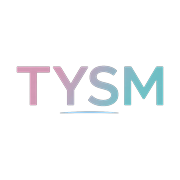
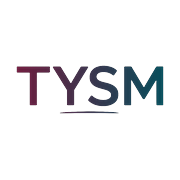
Fix the phone chrome the production screenshots called out.
Slim the header onto a bottom tab bar, darken the wordmark so it reads on gray, hide category scrollbars, and replace letterboxed placeholder photos.

Changed region(s): [[0.0833, 0.3611, 0.9167, 0.6389]]

diff --git a/components/shell.tsx b/components/shell.tsx
@@ -20,11 +20,15 @@ export function Header({
 }) {
   const nav = navLabels(locale);
   return (
-    <header className="sticky top-0 z-30 pt-[env(safe-area-inset-top)]">
-      <div className="bg-bg">
-        <div className="mx-auto flex h-14 max-w-6xl items-center gap-1 overflow-x-auto px-3 md:h-16 md:gap-3 md:px-5">
+    <header className="sticky top-0 z-40 bg-bg pt-[env(safe-area-inset-top)]">
+      <div>
+        <div className="mx-auto flex h-14 max-w-6xl items-center gap-1 px-3 md:h-16 md:gap-3 md:px-5">
           <Link href="/" className="shrink-0 pr-1">
-            <img src="/brand/tysm-wordmark.png" alt="TYSM" className="h-8 w-auto bg-transparent sm:h-9 md:h-10" />
+            <img
+              src={theme === "dark" ? "/brand/tysm-wordmark-on-dark.png" : "/brand/tysm-wordmark.png"}
+              alt="TYSM"
+              className="h-9 w-auto bg-transparent md:h-10"
+            />
           </Link>
           <div className="mx-auto hidden min-w-0 max-w-xl flex-1 md:block">
             <SearchBox locale={locale} />
@@ -53,23 +57,31 @@ export function Header({
               </form>
             ) : null}
           </nav>
-          <form action={setPrefs} className="flex items-center">
-            <button className="grid h-11 min-w-11 place-items-center rounded-full px-2 text-xs font-semibold text-muted" name="locale" value={locale === "en" ? "zh-HK" : "en"}>
-              {locale === "en" ? "中" : "EN"}
-            </button>
-            <button
-              className="grid h-11 w-11 place-items-center rounded-full text-muted"
-              name="theme"
-              value={theme === "dark" ? "light" : "dark"}
-              aria-label={theme === "dark" ? tx(locale, "淺色", "Light") : tx(locale, "深色", "Dark")}
-            >
-              <Icon name={theme === "dark" ? "sun" : "moon"} className="h-5 w-5" />
-            </button>
-          </form>
+          <div className="hidden md:block">
+            <PrefToggles locale={locale} theme={theme} />
+          </div>
         </div>
         <div className="h-px bg-gradient-to-r from-transparent via-rose/70 to-teal/80" />
       </div>
     </header>
+  );
+}
+
+export function PrefToggles({ locale, theme }: { locale: Locale; theme: "light" | "dark" }) {
+  return (
+    <form action={setPrefs} className="flex items-center">
+      <button className="grid h-11 min-w-11 place-items-center rounded-full px-2 text-xs font-semibold text-muted" name="locale" value={locale === "en" ? "zh-HK" : "en"}>
+        {locale === "en" ? "中" : "EN"}
+      </button>
+      <button
+        className="grid h-11 w-11 place-items-center rounded-full text-muted"
+        name="theme"
+        value={theme === "dark" ? "light" : "dark"}
+        aria-label={theme === "dark" ? tx(locale, "淺色", "Light") : tx(locale, "深色", "Dark")}
+      >
+        <Icon name={theme === "dark" ? "sun" : "moon"} className="h-5 w-5" />
+      </button>
+    </form>
   );
 }
 
@@ -83,12 +95,14 @@ function Count({ n }: { n: number }) {
 
 export function Footer({ locale }: { locale: Locale }) {
   return (
-    <footer className="mt-14 text-xs text-muted md:mt-20">
-      <div className="mx-auto flex max-w-6xl flex-wrap items-center justify-center gap-x-4 gap-y-1 px-4 py-8 md:justify-start">
-        <span className="font-display tracking-wide">TYSM · HKD</span>
-        <Link className="inline-flex h-11 items-center" href="/faq">FAQ</Link>
-        <Link className="inline-flex h-11 items-center" href="/terms">{tx(locale, "條款", "Terms")}</Link>
-        <Link className="inline-flex h-11 items-center" href="/privacy">{tx(locale, "私隱", "Privacy")}</Link>
+    <footer className="mt-10 text-muted md:mt-20">
+      <div className="mx-auto max-w-6xl px-4 py-6 text-center md:flex md:items-center md:justify-start md:gap-4 md:py-8 md:text-left">
+        <p className="font-display text-sm tracking-wide">TYSM</p>
+        <p className="mt-2 flex justify-center gap-4 text-xs md:mt-0">
+          <Link className="inline-flex min-h-11 items-center md:min-h-0" href="/faq">FAQ</Link>
+          <Link className="inline-flex min-h-11 items-center md:min-h-0" href="/terms">{tx(locale, "條款", "Terms")}</Link>
+          <Link className="inline-flex min-h-11 items-center md:min-h-0" href="/privacy">{tx(locale, "私隱", "Privacy")}</Link>
+        </p>
       </div>
     </footer>
   );

diff --git a/components/listing-card.tsx b/components/listing-card.tsx
@@ -42,35 +42,35 @@ export function ListingCard({
   const sale =
     listing.saleType === "AUCTION" ? tx(locale, "拍賣", "Auction") : listing.saleType === "BOTH" ? tx(locale, "直購 + 拍賣", "BIN + auction") : tx(locale, "直購", "Buy Now");
   return (
-    <article className="surface relative overflow-hidden">
-      <Link href={`/listing/${listing.id}`} className="block">
-        <div className="relative">
-          <img src={listing.photos[0]?.url || "/demo/back.svg"} alt="" className="aspect-[4/5] w-full object-cover" />
-          <span className="absolute left-2.5 top-2.5 max-w-[68%] truncate rounded-full bg-card/95 px-2.5 py-1 text-[11px] font-semibold text-ink shadow-sm">
-            {conditionLabel(listing)}
-          </span>
-        </div>
-        <div className="grid gap-1.5 px-3 pb-3.5 pt-3">
-          <h2 className="line-clamp-2 min-h-[2.5em] text-[15px] font-semibold leading-snug">{listing.title}</h2>
-          <p className="price text-xl leading-none">{formatHkd(amount, locale)}</p>
-          <p className="truncate text-xs leading-4 text-muted">
-            {sale}
-            {followed ? ` · ${tx(locale, "關注中", "Following")}` : ""}
-            {live && listing.auctionEndsAt ? ` · ${formatHKT(listing.auctionEndsAt, locale, false)}` : ` · ${listing.seller.nickname}`}
-          </p>
-        </div>
+    <article className="surface flex h-full flex-col overflow-hidden">
+      <div className="relative">
+        <Link href={`/listing/${listing.id}`} className="block">
+          <img src={listing.photos[0]?.url || "/demo/back.svg"} alt="" className="block aspect-[4/5] w-full object-cover" />
+        </Link>
+        <span className="pointer-events-none absolute left-2.5 top-2.5 max-w-[62%] truncate rounded-full bg-card/95 px-2.5 py-1 text-[11px] font-semibold text-ink shadow-sm">
+          {conditionLabel(listing)}
+        </span>
+        <form action={toggleFavorite} className="absolute bottom-2 right-2">
+          <input type="hidden" name="listingId" value={listing.id} />
+          <input type="hidden" name="next" value={next} />
+          <button
+            aria-label={tx(locale, "收藏", "Favorite")}
+            className={`grid h-11 w-11 place-items-center rounded-full text-2xl leading-none shadow-sm ${favorited ? "bg-[#1b1418] text-rose" : "bg-card text-[#9a5d78]"}`}
+          >
+            {favorited ? "♥" : "♡"}
+            <span className="sr-only">{listing.favoriteCount}</span>
+          </button>
+        </form>
+      </div>
+      <Link href={`/listing/${listing.id}`} className="flex flex-1 flex-col gap-1.5 px-3 pb-3.5 pt-3">
+        <h2 className="line-clamp-2 min-h-[2.6em] text-[15px] font-semibold leading-snug">{listing.title}</h2>
+        <p className="price text-[1.45rem] leading-none">{formatHkd(amount, locale)}</p>
+        <p className="mt-auto truncate text-xs leading-4 text-muted">
+          {sale}
+          {followed ? ` · ${tx(locale, "關注中", "Following")}` : ""}
+          {live && listing.auctionEndsAt ? ` · ${formatHKT(listing.auctionEndsAt, locale, false)}` : ` · ${listing.seller.nickname}`}
+        </p>
       </Link>
-      <form action={toggleFavorite} className="absolute right-1.5 top-1.5">
-        <input type="hidden" name="listingId" value={listing.id} />
-        <input type="hidden" name="next" value={next} />
-        <button
-          aria-label={tx(locale, "收藏", "Favorite")}
-          className={`grid h-11 w-11 place-items-center rounded-full text-lg shadow-sm backdrop-blur ${favorited ? "bg-[#1b1418] text-rose" : "bg-white/90 text-[#9a5d78]"}`}
-        >
-          {favorited ? "♥" : "♡"}
-          <span className="sr-only">{listing.favoriteCount}</span>
-        </button>
-      </form>
     </article>
   );
 }

diff --git a/app/page.tsx b/app/page.tsx
@@ -65,9 +65,9 @@ export default async function HomePage({
         <SearchBox locale={prefs.locale} />
       </div>
       <h1 className="page-title">{tx(prefs.locale, "卡牌動態", "Card feed")}</h1>
-      <div className="-mx-3 mb-4 flex gap-2 overflow-x-auto px-3 pb-1 md:mx-0 md:px-0">
+      <div className="chips -mx-3 mb-4 md:mx-0">
         {categories.map((cat) => (
-          <Link key={cat.id} href={`/search?cat=${cat.slug}`} className="inline-flex h-11 shrink-0 items-center rounded-full bg-card px-4 text-sm font-semibold shadow-card ring-1 ring-inset ring-rose/25">
+          <Link key={cat.id} href={`/search?cat=${cat.slug}`} className="inline-flex h-11 shrink-0 snap-start items-center rounded-full bg-card px-4 text-sm font-semibold shadow-card ring-1 ring-inset ring-rose/25">
             {prefs.locale === "en" ? cat.nameEn : cat.nameZh}
           </Link>
         ))}

diff --git a/app/globals.css b/app/globals.css
@@ -196,6 +196,38 @@ svg {
   }
 }
 
+.chips {
+  display: flex;
+  gap: 0.5rem;
+  overflow-x: auto;
+  scroll-snap-type: x mandatory;
+  scroll-padding-inline: 1.25rem;
+  padding: 0.15rem 2.25rem 0.35rem 0.75rem;
+  scrollbar-width: none;
+  -webkit-mask-image: linear-gradient(to right, transparent, #000 0.7rem, #000 calc(100% - 2rem), transparent);
+  mask-image: linear-gradient(to right, transparent, #000 0.7rem, #000 calc(100% - 2rem), transparent);
+}
+
+.chips > * {
+  scroll-snap-align: start;
+}
+
+.chips::-webkit-scrollbar {
+  display: none;
+  height: 0;
+}
+
+@media (min-width: 768px) {
+  .chips {
+    flex-wrap: wrap;
+    overflow: visible;
+    margin-inline: 0;
+    padding-inline: 0;
+    -webkit-mask-image: none;
+    mask-image: none;
+  }
+}
+
 .feed {
   display: grid;
   grid-template-columns: repeat(2, minmax(0, 1fr));

diff --git a/app/me/page.tsx b/app/me/page.tsx
@@ -4,7 +4,7 @@ import { prisma } from "@/lib/db";
 import { getPrefs, getViewer } from "@/lib/auth";
 import { DISTRICTS } from "@/lib/format";
 import { tx } from "@/lib/i18n";
-import { Flash } from "@/components/shell";
+import { Flash, PrefToggles } from "@/components/shell";
 import { PhoneForm } from "@/components/phone-form";
 import { clearHistory, deleteAddress, logout, saveAddress, updateProfile } from "@/actions/auth";
 
@@ -28,6 +28,7 @@ export default async function MePage({ searchParams }: { searchParams: Promise<{
           <p className="mt-1 text-sm text-muted">{tx(locale, "關注", "Following")} {following}</p>
         </div>
       </div>
+      <PrefToggles locale={locale} theme={prefs.theme} />
       <nav className="grid gap-2">
         {[
           ["/me/favorites", tx(locale, "收藏", "Favorites")],

diff --git a/app/login/page.tsx b/app/login/page.tsx
@@ -1,4 +1,5 @@
 import { LoginForm } from "@/components/login-form";
+import { PrefToggles } from "@/components/shell";
 import { getPrefs, getViewer } from "@/lib/auth";
 import { redirect } from "next/navigation";
 import { tx } from "@/lib/i18n";
@@ -15,6 +16,9 @@ export default async function LoginPage({ searchParams }: { searchParams: Promis
         <h1 className="accent mt-2 text-3xl font-bold">{tx(prefs.locale, "登入 TYSM", "Log in to TYSM")}</h1>
         <div className="mt-6">
           <LoginForm locale={prefs.locale} next={next} />
+        </div>
+        <div className="mt-4 flex justify-end md:hidden">
+          <PrefToggles locale={prefs.locale} theme={prefs.theme} />
         </div>
       </div>
     </div>

diff --git a/components/gallery.tsx b/components/gallery.tsx
@@ -9,7 +9,7 @@ export function Gallery({ urls, alt }: { urls: string[]; alt: string }) {
     <div className="-mx-3 md:mx-0">
       <img src={urls[index]} alt={alt} className="aspect-[4/3] w-full bg-soft object-cover md:aspect-[4/5] md:rounded-[1.35rem]" />
       {urls.length > 1 ? (
-        <div className="mt-3 flex gap-2 overflow-x-auto px-3 pb-1 md:px-0">
+        <div className="chips mt-3 md:mx-0">
           {urls.map((url, i) => (
             <button key={`${url}-${i}`} type="button" onClick={() => setIndex(i)} className={`h-16 w-14 shrink-0 overflow-hidden rounded-xl ${i === index ? "ring-2 ring-teal" : ""}`}>
               <img src={url} alt="" className="h-full w-full object-cover" />

diff --git a/app/admin/page.tsx b/app/admin/page.tsx
@@ -32,7 +32,7 @@ export default async function AdminPage({ searchParams }: { searchParams: Promis
     <div>
       <Flash locale={locale} ok={sp.ok} err={sp.err} />
       <h1 className="mb-3 text-2xl font-semibold">{tx(locale, "管理", "Admin")}</h1>
-      <nav className="-mx-3 mb-4 flex gap-2 overflow-x-auto px-3 pb-1 text-sm md:mx-0 md:flex-wrap md:px-0">
+      <nav className="chips -mx-3 mb-4 text-sm md:mx-0">
         {tabs.map((item) => (
           <Link key={item} href={`/admin?tab=${item}`} className={`inline-flex h-11 shrink-0 items-center rounded-full px-4 ${item === tab ? "bg-card font-semibold shadow-card" : "bg-soft text-muted"}`}>
             {item}
